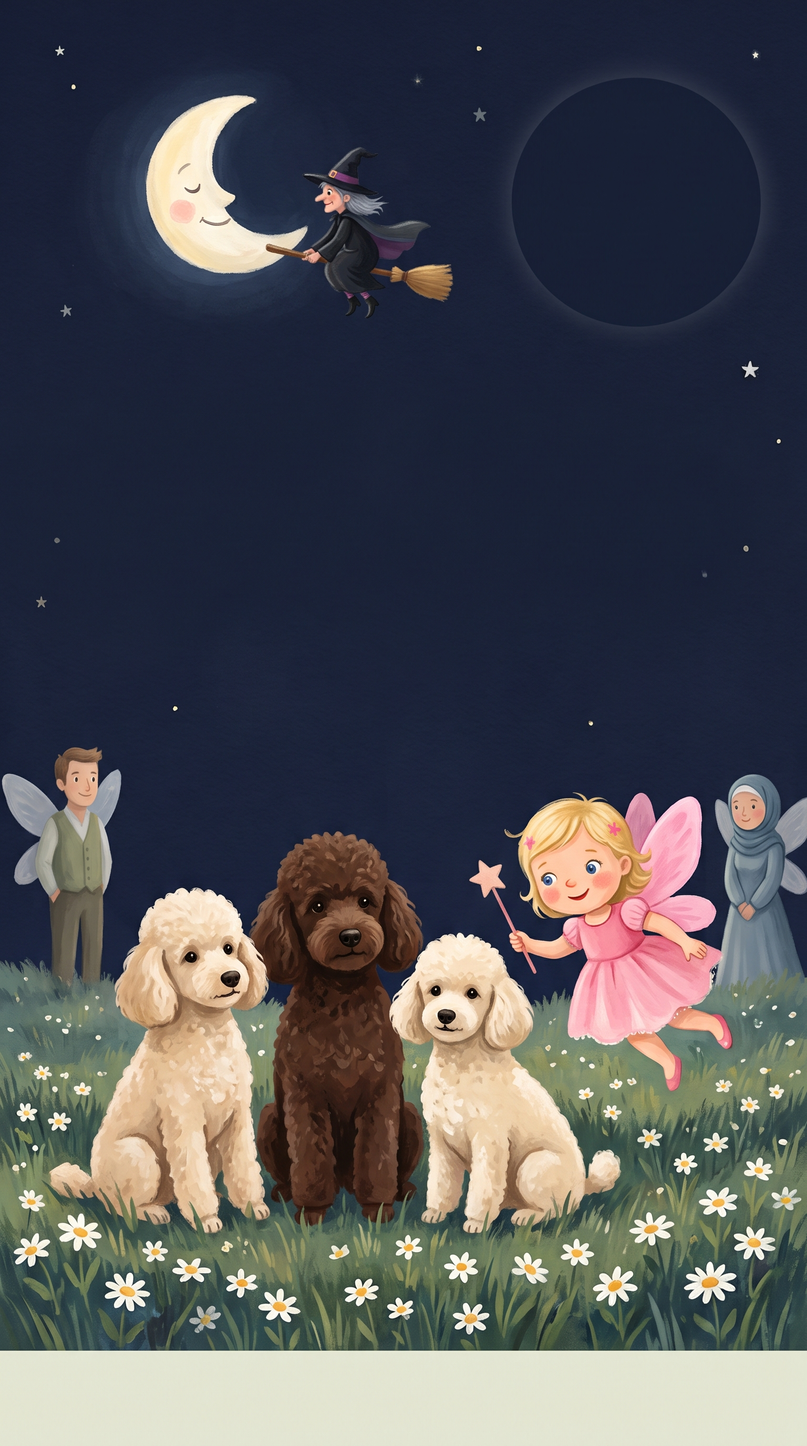
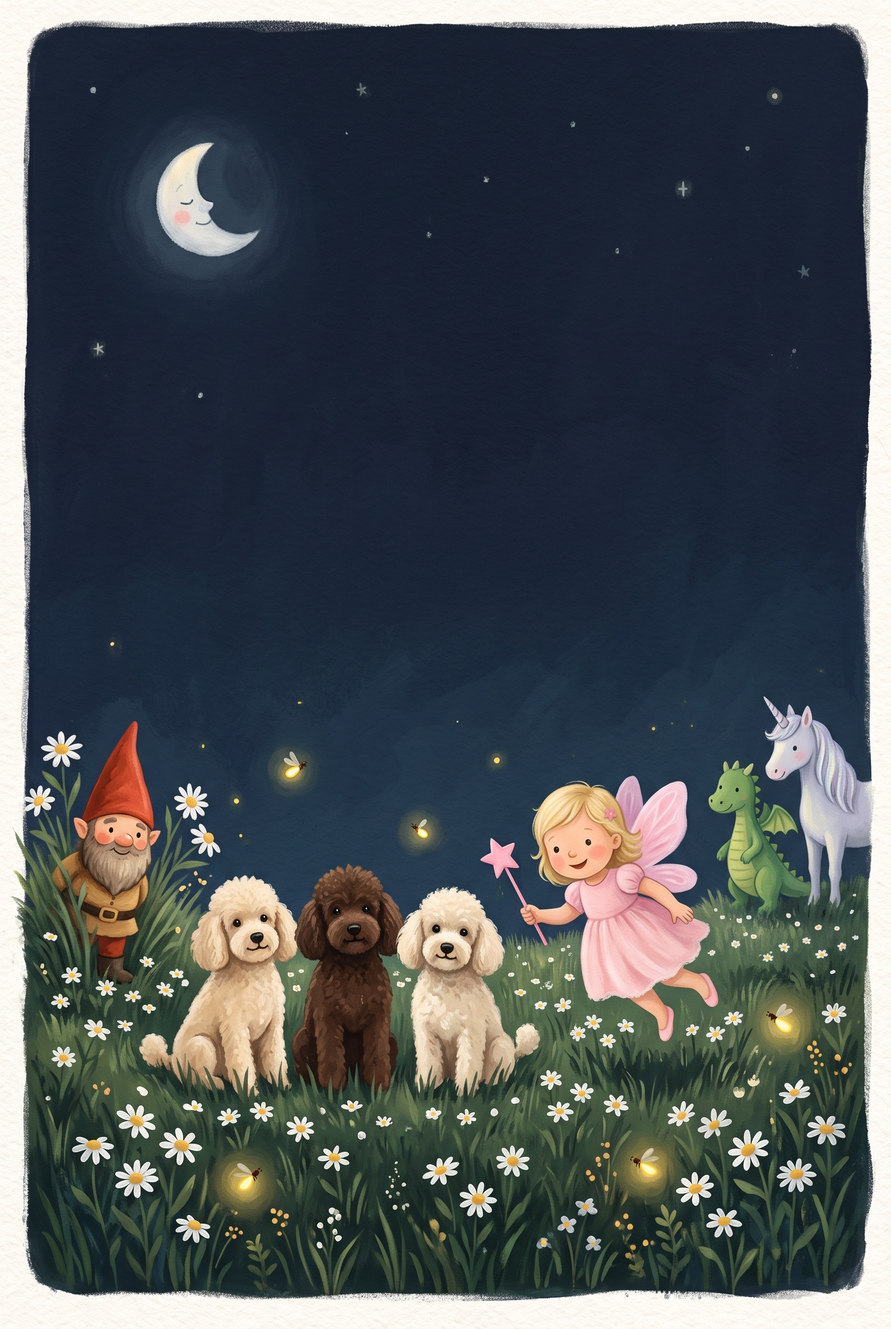
Cover belakang Berry: layout baru, barcode, info Kertas Kecil

diff --git a/worksheet.html b/worksheet.html
@@ -209,17 +209,32 @@
                 color: #fff; display: flex; align-items: flex-end; justify-content: center;
                 padding-bottom: 3mm; font: 600 16pt/1 var(--kk-font-title); }
   .kk-seri__i--on { background: #fff; color: #4E9E52; }
-  .kk-back--berry { background: #13324F; }
-  .kk-back--berry .kk-back__ig { color: #E8C35D; opacity: 1; }
-  .kk-back--berry .kk-back__ph { border-color: #CF7B9D; color: #CF7B9D; }
-  .kk-back--berry .kk-back__in { justify-content: center; padding: 14mm 14mm 18mm; }
-  .kk-back__art { display: flex; justify-content: center; margin-bottom: 12mm; }
-  .kk-back__ill { width: 100%; height: auto; display: block; border-radius: 3mm; }
-  .kk-back__ph { width: 100%; height: 130mm; border: 0.6mm dashed rgba(255,255,255,.7);
-                 border-radius: 5mm; display: flex; align-items: center;
-                 justify-content: center; font: 600 10pt/1 var(--kk-font-ui); }
-  .kk-back--berry .kk-back__p { font-size: 11.5pt; line-height: 1.7; margin: 0 0 5mm; }
-  .kk-back--berry .kk-back__ig { margin-top: 6mm; opacity: .9; }
+  .kk-back--berry { background: #13324F; position: relative; overflow: hidden; padding: 0 !important; }
+  .kk-back--berry .kk-back__art { position: absolute; inset: 0; margin: 0; display: block; }
+  .kk-back__ill { width: 100%; height: 100%; object-fit: cover; object-position: center 38%;
+                  display: block; border-radius: 0; }
+  .kk-back__ph { position: absolute; inset: 10mm; border: 0.6mm dashed rgba(255,255,255,.7);
+                 border-radius: 3mm; display: flex; align-items: center; justify-content: center;
+                 font: 600 11pt/1 var(--kk-font-ui); }
+  .kk-back__over { position: absolute; top: 0; left: 0; right: 0; padding: 34mm 20mm 18mm;
+                   background: linear-gradient(to bottom, rgba(19,50,79,.97) 72%,
+                               rgba(19,50,79,.82) 86%, rgba(19,50,79,0)); }
+  .kk-back--berry .kk-back__txt { max-width: 152mm; }
+  .kk-back--berry .kk-back__p { font-size: 11.5pt; line-height: 1.7; margin: 0 0 5mm;
+                                max-width: none; }
+  .kk-back--berry .kk-back__ig { margin: 7mm 0 0; opacity: 1; color: #E8C35D; }
+  .kk-back__meta { display: flex; align-items: flex-end; justify-content: space-between;
+                   gap: 10mm; margin-top: 14mm; }
+  .kk-back__col { display: flex; flex-direction: column; gap: 1.6mm; }
+  .kk-back__brand { font: 700 11pt/1.2 var(--kk-font-title); color: #fff; }
+  .kk-back__ig2 { font: 600 9.5pt/1.2 var(--kk-font-ui); color: #E8C35D; }
+  .kk-back__fine { font: 400 7.6pt/1.35 var(--kk-font-ui); color: rgba(255,255,255,.72);
+                   max-width: 78mm; }
+  .kk-back__code { background: #fff; border-radius: 1.4mm; padding: 2.6mm 3mm 1.8mm;
+                   display: flex; flex-direction: column; align-items: center; gap: 1.2mm; }
+  .kk-back__bars { display: flex; align-items: flex-end; gap: 1px; height: 13mm; }
+  .kk-bar { display: block; height: 100%; background: #13324F; }
+  .kk-back__num { font: 600 7pt/1 var(--kk-font-ui); color: #13324F; letter-spacing: .08em; }
   .kk-back__ig { font: 600 11pt/1 var(--kk-font-ui); margin: 6mm 0 0; opacity: .95; }
   .kk-serigrid { flex: 1; display: grid; grid-template-columns: 1fr 1fr; gap: 4mm;
                  min-height: 0; }
@@ -2424,9 +2439,23 @@
   </div>
 </section>
 <section class="kk-page kk-back kk-back--berry">
-  <div class="kk-back__in">
-    <div class="kk-back__art"><img src="assets-berry/cover_belakang.jpeg" class="kk-back__ill" alt=""></div>
-    <p class="kk-back__p">Thank you for letting your little one play with this book.</p><p class="kk-back__p">Berry made it with Mami and Papi for her third birthday, and she wanted her friends to have one too.</p><p class="kk-back__p">Sit down with your child while they color and cut. Talk about the pictures. Let them go outside the lines. The pages are just a reason to spend a slow hour together. We hope your family has fun with it, and that this little book stays with you as something to remember Berry's third birthday.</p>
+  <div class="kk-back__art"><img src="assets-berry/cover_belakang.jpeg" class="kk-back__ill" alt=""></div>
+  <div class="kk-back__over">
+    <div class="kk-back__txt"><p class="kk-back__p">Thank you for letting your little one play with this book.</p><p class="kk-back__p">Berry made it with Mami and Papi for her third birthday, and she wanted her friends to have one too.</p><p class="kk-back__p">Sit down with your child while they color and cut. Talk about the pictures. Let them go outside the lines. The pages are just a reason to spend a slow hour together. We hope your family has fun with it, and that this little book stays with you as something to remember Berry's third birthday.</p></div>
+    <p class="kk-back__ig">Berry, September 13th</p>
+    <div class="kk-back__meta">
+      <div class="kk-back__col">
+        <span class="kk-back__brand">by Kertas Kecil Project</span>
+        <span class="kk-back__ig2">@kertaskecil.project</span>
+        <span class="kk-back__fine">Ages 3+ &middot; crayons and scissors &middot;
+          scissors with a grown-up nearby</span>
+        <span class="kk-back__fine">Printed at home, with love. Not for sale.</span>
+      </div>
+      <div class="kk-back__code">
+        <div class="kk-back__bars"><span class="kk-bar" style="width:2px"></span><span class="kk-bar" style="width:2px"></span><span class="kk-bar" style="width:1px"></span><span class="kk-bar" style="width:1px"></span><span class="kk-bar" style="width:1px"></span><span class="kk-bar" style="width:1px"></span><span class="kk-bar" style="width:1px"></span><span class="kk-bar" style="width:1px"></span><span class="kk-bar" style="width:1px"></span><span class="kk-bar" style="width:1px"></span><span class="kk-bar" style="width:2px"></span><span class="kk-bar" style="width:1px"></span><span class="kk-bar" style="width:3px"></span><span class="kk-bar" style="width:1px"></span><span class="kk-bar" style="width:1px"></span><span class="kk-bar" style="width:2px"></span><span class="kk-bar" style="width:1px"></span><span class="kk-bar" style="width:1px"></span><span class="kk-bar" style="width:2px"></span><span class="kk-bar" style="width:3px"></span><span class="kk-bar" style="width:3px"></span><span class="kk-bar" style="width:1px"></span><span class="kk-bar" style="width:2px"></span><span class="kk-bar" style="width:2px"></span><span class="kk-bar" style="width:1px"></span><span class="kk-bar" style="width:3px"></span><span class="kk-bar" style="width:3px"></span><span class="kk-bar" style="width:2px"></span><span class="kk-bar" style="width:3px"></span><span class="kk-bar" style="width:2px"></span><span class="kk-bar" style="width:1px"></span><span class="kk-bar" style="width:2px"></span><span class="kk-bar" style="width:2px"></span><span class="kk-bar" style="width:3px"></span><span class="kk-bar" style="width:1px"></span><span class="kk-bar" style="width:3px"></span><span class="kk-bar" style="width:3px"></span><span class="kk-bar" style="width:1px"></span><span class="kk-bar" style="width:2px"></span><span class="kk-bar" style="width:1px"></span><span class="kk-bar" style="width:1px"></span><span class="kk-bar" style="width:2px"></span><span class="kk-bar" style="width:2px"></span><span class="kk-bar" style="width:2px"></span><span class="kk-bar" style="width:3px"></span><span class="kk-bar" style="width:2px"></span><span class="kk-bar" style="width:2px"></span><span class="kk-bar" style="width:3px"></span></div>
+        <span class="kk-back__num">9 781312 345678</span>
+      </div>
+    </div>
   </div>
 </section>
 </body>

diff --git a/gen.py b/gen.py
@@ -1104,10 +1104,28 @@ def sampul_belakang_berry():
          "together. We hope your family has fun with it, and that this little book stays "
          "with you as something to remember Berry's third birthday."]
     isi = "".join(f'<p class="kk-back__p">{t}</p>' for t in P)
+    random.seed(13)
+    bars = "".join(
+        f'<span class="kk-bar" style="width:{w}px"></span>'
+        for w in (random.choice((1, 1, 2, 3)) for _ in range(48)))
     raw_page(f"""<section class="kk-page kk-back kk-back--berry">
-  <div class="kk-back__in">
-    <div class="kk-back__art">{gbr}</div>
-    {isi}
+  <div class="kk-back__art">{gbr}</div>
+  <div class="kk-back__over">
+    <div class="kk-back__txt">{isi}</div>
+    <p class="kk-back__ig">Berry, September 13th</p>
+    <div class="kk-back__meta">
+      <div class="kk-back__col">
+        <span class="kk-back__brand">by Kertas Kecil Project</span>
+        <span class="kk-back__ig2">@kertaskecil.project</span>
+        <span class="kk-back__fine">Ages 3+ &middot; crayons and scissors &middot;
+          scissors with a grown-up nearby</span>
+        <span class="kk-back__fine">Printed at home, with love. Not for sale.</span>
+      </div>
+      <div class="kk-back__code">
+        <div class="kk-back__bars">{bars}</div>
+        <span class="kk-back__num">9 781312 345678</span>
+      </div>
+    </div>
   </div>
 </section>""", hitung=False)
 
@@ -1781,17 +1799,32 @@ CSS = """
                 color: #fff; display: flex; align-items: flex-end; justify-content: center;
                 padding-bottom: 3mm; font: 600 16pt/1 var(--kk-font-title); }
   .kk-seri__i--on { background: #fff; color: #4E9E52; }
-  .kk-back--berry { background: #13324F; }
-  .kk-back--berry .kk-back__ig { color: #E8C35D; opacity: 1; }
-  .kk-back--berry .kk-back__ph { border-color: #CF7B9D; color: #CF7B9D; }
-  .kk-back--berry .kk-back__in { justify-content: center; padding: 14mm 14mm 18mm; }
-  .kk-back__art { display: flex; justify-content: center; margin-bottom: 12mm; }
-  .kk-back__ill { width: 100%; height: auto; display: block; border-radius: 3mm; }
-  .kk-back__ph { width: 100%; height: 130mm; border: 0.6mm dashed rgba(255,255,255,.7);
-                 border-radius: 5mm; display: flex; align-items: center;
-                 justify-content: center; font: 600 10pt/1 var(--kk-font-ui); }
-  .kk-back--berry .kk-back__p { font-size: 11.5pt; line-height: 1.7; margin: 0 0 5mm; }
-  .kk-back--berry .kk-back__ig { margin-top: 6mm; opacity: .9; }
+  .kk-back--berry { background: #13324F; position: relative; overflow: hidden; padding: 0 !important; }
+  .kk-back--berry .kk-back__art { position: absolute; inset: 0; margin: 0; display: block; }
+  .kk-back__ill { width: 100%; height: 100%; object-fit: cover; object-position: center 38%;
+                  display: block; border-radius: 0; }
+  .kk-back__ph { position: absolute; inset: 10mm; border: 0.6mm dashed rgba(255,255,255,.7);
+                 border-radius: 3mm; display: flex; align-items: center; justify-content: center;
+                 font: 600 11pt/1 var(--kk-font-ui); }
+  .kk-back__over { position: absolute; top: 0; left: 0; right: 0; padding: 34mm 20mm 18mm;
+                   background: linear-gradient(to bottom, rgba(19,50,79,.97) 72%,
+                               rgba(19,50,79,.82) 86%, rgba(19,50,79,0)); }
+  .kk-back--berry .kk-back__txt { max-width: 152mm; }
+  .kk-back--berry .kk-back__p { font-size: 11.5pt; line-height: 1.7; margin: 0 0 5mm;
+                                max-width: none; }
+  .kk-back--berry .kk-back__ig { margin: 7mm 0 0; opacity: 1; color: #E8C35D; }
+  .kk-back__meta { display: flex; align-items: flex-end; justify-content: space-between;
+                   gap: 10mm; margin-top: 14mm; }
+  .kk-back__col { display: flex; flex-direction: column; gap: 1.6mm; }
+  .kk-back__brand { font: 700 11pt/1.2 var(--kk-font-title); color: #fff; }
+  .kk-back__ig2 { font: 600 9.5pt/1.2 var(--kk-font-ui); color: #E8C35D; }
+  .kk-back__fine { font: 400 7.6pt/1.35 var(--kk-font-ui); color: rgba(255,255,255,.72);
+                   max-width: 78mm; }
+  .kk-back__code { background: #fff; border-radius: 1.4mm; padding: 2.6mm 3mm 1.8mm;
+                   display: flex; flex-direction: column; align-items: center; gap: 1.2mm; }
+  .kk-back__bars { display: flex; align-items: flex-end; gap: 1px; height: 13mm; }
+  .kk-bar { display: block; height: 100%; background: #13324F; }
+  .kk-back__num { font: 600 7pt/1 var(--kk-font-ui); color: #13324F; letter-spacing: .08em; }
   .kk-back__ig { font: 600 11pt/1 var(--kk-font-ui); margin: 6mm 0 0; opacity: .95; }
   .kk-serigrid { flex: 1; display: grid; grid-template-columns: 1fr 1fr; gap: 4mm;
                  min-height: 0; }
